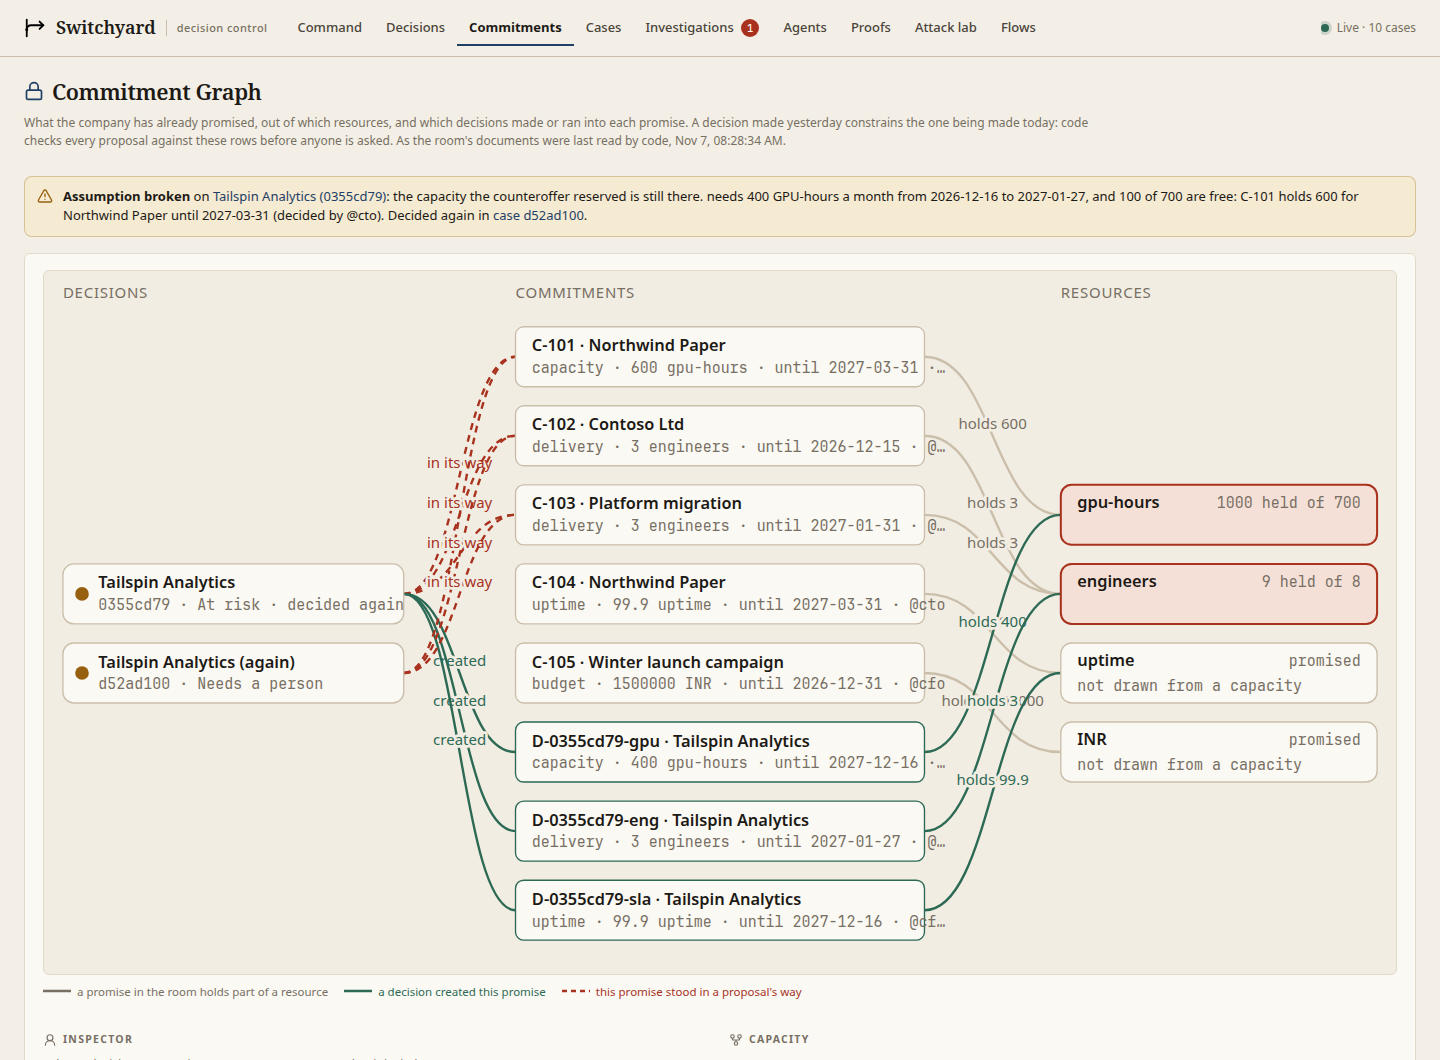
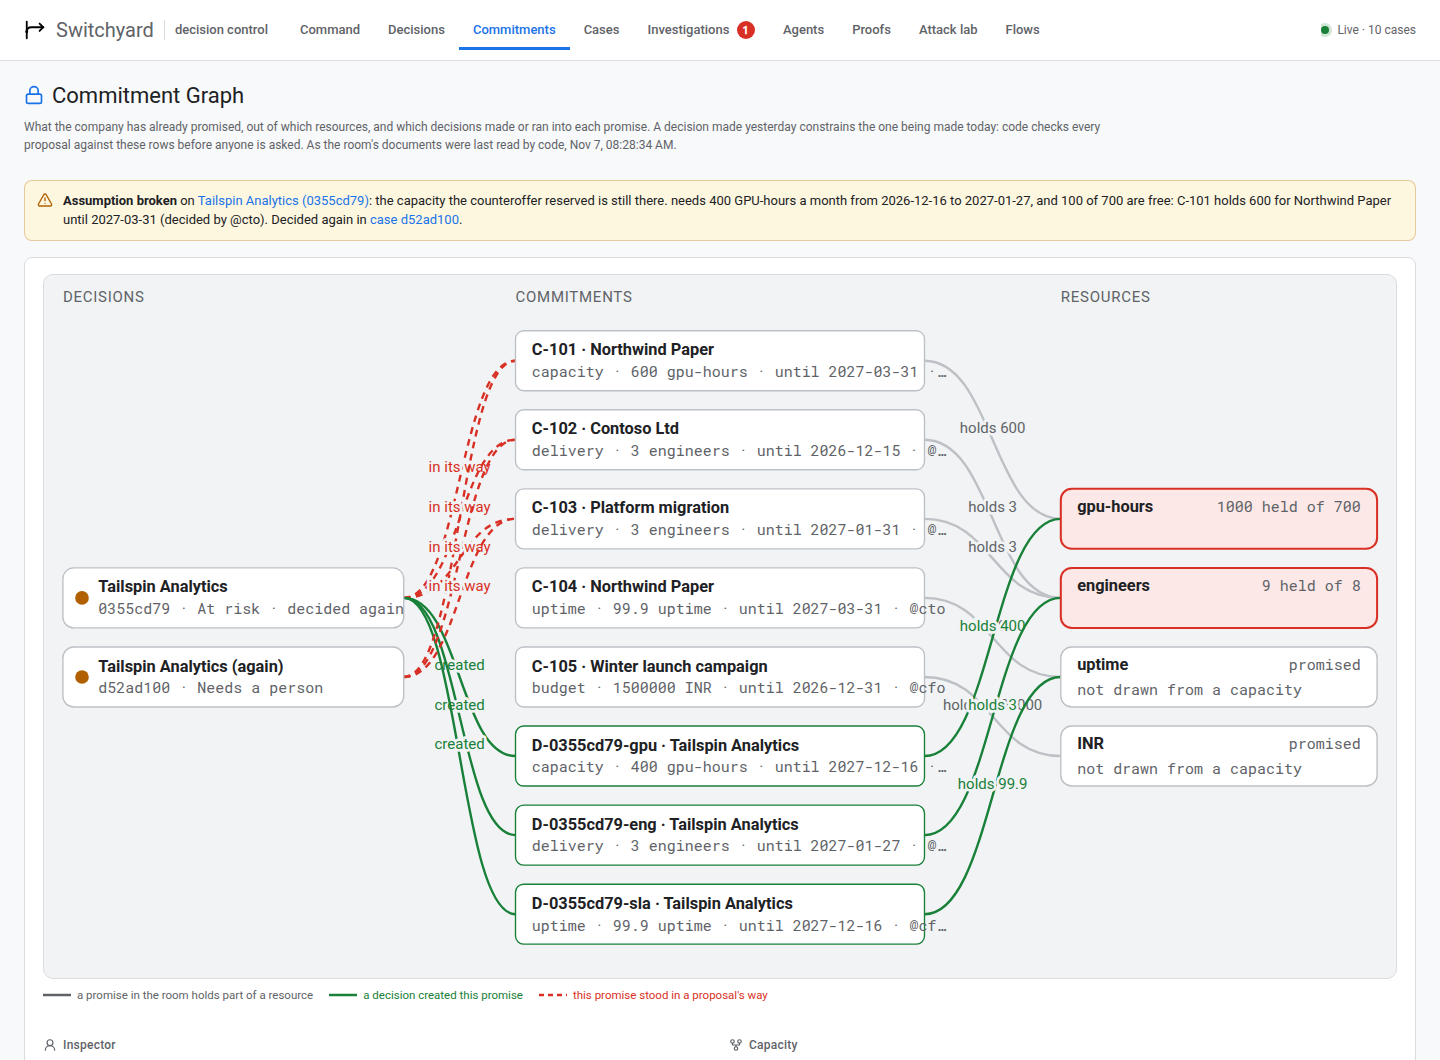
Restyle the console after Google's product UI: white cards, one blue, Roboto

Changed region(s): [[0.0, 0.0, 1.0, 0.9028], [0.0312, 0.934, 0.5625, 0.9962]]

diff --git a/src/web/static/console.css b/src/web/static/console.css
@@ -1,8 +1,8 @@
 /* The console: the dashboard's dense views (Command, Decisions,
-   Commitments, Agents, Proofs, Attack lab, walkthrough). A ledger on paper:
-   hairline rules, square corners, serif headings, figures in mono. Colour
-   carries meaning only: Prussian blue selects, ochre is uncertain or a
-   person's turn, madder is a violation, verdigris is verified. */
+   Commitments, Agents, Proofs, Attack lab, walkthrough), styled like
+   Google's own products: white cards on a light grey page, one blue for
+   what you can act on, and red, yellow and green for a violation, a
+   person's turn and a verified result. */
 
 :root[data-theme="dark"] .logo { filter: invert(1); }
 :root[data-theme="dark"] .vendor.v-anthropic { background: #3a2417; color: #f2b48d; }
@@ -12,7 +12,7 @@
 
 body { font-feature-settings: "cv11", "ss01"; background: var(--bg); }
 h1, h2, .brand, .cc-hero h1, .pf-top h2, .dr-top h2, .lab-head h1, .rp-head h1, .rp-stage-head h2, .lab-scenario h2, .ig-main h2, .d-head h1 {
-  font-family: var(--serif); font-weight: 600; letter-spacing: -.005em; }
+  font-family: var(--display); font-weight: 600; letter-spacing: -.005em; }
 .mono, code { font-variant-numeric: tabular-nums; }
 a { color: inherit; }
 .caselink { color: var(--accent); text-decoration: none; }
@@ -81,7 +81,7 @@ h3 .ico, h4 .ico { width: 14px; height: 14px; vertical-align: -2px; }
 .cc-tile { position: relative; display: grid; gap: 2px; padding: 14px 14px 12px; border-radius: var(--radius); background: var(--surface); border: 1px solid var(--line); text-decoration: none; overflow: hidden; transition: border-color .15s, transform .15s; }
 .cc-tile::before { content: ""; position: absolute; inset: 0 auto auto 0; width: 100%; height: 2px; background: var(--t); }
 .cc-tile:hover { border-color: var(--line-strong); background: var(--surface-2); }
-.cc-v { font: 600 32px/1.05 var(--serif); letter-spacing: -.01em; color: var(--t); font-variant-numeric: lining-nums tabular-nums; }
+.cc-v { font: 600 32px/1.05 var(--display); letter-spacing: -.01em; color: var(--t); font-variant-numeric: lining-nums tabular-nums; }
 .cc-v small { font-size: 16px; color: var(--muted); }
 .cc-l { font-weight: 600; font-size: 13px; }
 .cc-s { color: var(--muted); font-size: 11.5px; white-space: nowrap; overflow: hidden; text-overflow: ellipsis; }
@@ -449,54 +449,67 @@ a.btn { text-decoration: none; }
 .demo-mode { margin-left: auto; font: 600 11px/1 var(--mono); text-transform: uppercase; letter-spacing: .06em; color: var(--person); background: var(--person-soft); border: 1px solid color-mix(in srgb, var(--person) 40%, transparent); padding: 6px 9px; border-radius: 6px; white-space: nowrap; }
 .demo-mode:not([hidden]) + .live { margin-left: 12px; }
 
-/* ---------- Ledger finish (light) ---------- */
+/* ---------- Google-style finish (light) ---------- */
+h1, h2, .brand, .cc-hero h1, .pf-top h2, .dr-top h2, .lab-head h1, .rp-head h1, .rp-stage-head h2, .lab-scenario h2, .ig-main h2, .d-head h1 { font-weight: 400; letter-spacing: 0; }
+.cc-hero h1 { font-size: 32px; line-height: 1.2; }
 .card, .cc-tile, .pf-block, .lab-result, .dr-view, .ag-job, .ag-yard-list li, .rp-agents > li, .pf-seal-step, .dr-watch li, .pf-exec, .ig-facts li { border-radius: var(--radius); box-shadow: none; }
-.card { background: var(--surface); border-color: var(--line); }
-.topbar { background: var(--bg); border-bottom: 1px solid var(--line-strong); backdrop-filter: none; }
-.brand { font-size: 18px; }
-.brand-sub { font-family: var(--font); font-size: 11px; letter-spacing: .04em; text-transform: none; color: var(--muted); }
+.card { background: var(--surface); border: 1px solid var(--line); }
+.topbar { background: var(--surface); border-bottom: 1px solid var(--line); backdrop-filter: none; }
+.brand { font-size: 20px; color: var(--muted); }
+.brand-sub { font-size: 13px; letter-spacing: 0; text-transform: none; color: var(--muted); border-left-color: var(--line); }
 .tabs { background: transparent; border: 0; padding: 0; gap: 0; border-radius: 0; }
-.tabs button { border-radius: 0; padding: 8px 12px; color: var(--ink-2); }
-.tabs button[aria-selected="true"] { background: transparent; color: var(--ink); box-shadow: inset 0 -2px 0 var(--accent); font-weight: 650; }
-.tabs .n { background: var(--stop); color: var(--on-act); }
-.seg-tabs { background: transparent; border: 0; border-bottom: 1px solid var(--line-strong); border-radius: 0; padding: 0; }
-.seg-tabs button { border-radius: 0; }
-.seg-tabs button[aria-selected="true"] { background: transparent; box-shadow: inset 0 -2px 0 var(--accent); }
-.card h3, .dr-sec h3, .cg-main h3, .lab-scenario h4, .lab-result h5, .pf-table th { font-family: var(--font); font-size: 10.5px; letter-spacing: .12em; color: var(--muted); }
-.pill { border-radius: 3px; font-weight: 600; }
-.chip { border-radius: 3px; background: transparent; }
-.chip[aria-checked="true"] { background: var(--accent); color: var(--on-accent); border-color: var(--accent); }
-.btn.small, .btn:not(.accent):not(.small) { background: var(--surface); border-color: var(--line-strong); }
-.btn.small:hover, .btn:not(.accent):not(.small):hover { border-color: var(--accent); }
-.btn { border-radius: var(--radius-sm); }
-.cc-chain-card { background: var(--surface); }
+.tabs button { border-radius: 0; padding: 10px 14px; color: var(--muted); font-weight: 500; }
+.tabs button:hover { color: var(--ink); background: var(--surface-2); }
+.tabs button[aria-selected="true"] { background: transparent; color: var(--accent); box-shadow: inset 0 -3px 0 var(--accent); }
+.tabs .n { background: var(--stop); color: #fff; }
+.seg-tabs { background: transparent; border: 0; border-bottom: 1px solid var(--line); border-radius: 0; padding: 0; }
+.seg-tabs button { border-radius: 0; color: var(--muted); }
+.seg-tabs button[aria-selected="true"] { background: transparent; color: var(--accent); box-shadow: inset 0 -3px 0 var(--accent); }
+.card h3, .dr-sec h3, .cg-main h3, .lab-scenario h4, .lab-result h5, .pf-table th { font-size: 12px; font-weight: 500; letter-spacing: .02em; text-transform: none; color: var(--muted); }
+.pill { border-radius: 999px; font-weight: 500; }
+.chip { border-radius: 8px; border-color: var(--line); background: var(--surface); color: var(--ink-2); font-weight: 500; }
+.chip[aria-checked="true"] { background: var(--accent-soft); color: #174ea6; border-color: var(--accent-soft); }
+.btn { border-radius: 999px; font-weight: 500; }
+.btn.accent, .btn.small.accent { background: var(--accent); color: #fff; border-color: var(--accent); }
+.btn.accent:hover { box-shadow: var(--shadow); opacity: 1; }
+.btn.small, .btn:not(.accent):not(.small) { background: var(--surface); color: var(--accent); border: 1px solid var(--line); }
+.btn.small:hover, .btn:not(.accent):not(.small):hover { background: var(--accent-soft); border-color: var(--line); }
+.cc-tile { background: var(--surface); }
+.cc-tile::before { display: none; }
+.cc-tile:hover { border-color: var(--line); box-shadow: var(--shadow); background: var(--surface); }
+.cc-v { font: 400 36px/1.1 var(--display); }
+.cc-l { font-weight: 500; }
 .cc-stage .ico { color: var(--accent); }
-.cc-n { font-family: var(--serif); font-weight: 600; font-size: 24px; }
-.cc-arrow { background: var(--line-strong); opacity: 1; }
+.cc-n { font-family: var(--display); font-weight: 400; font-size: 26px; }
+.cc-arrow { background: var(--line); opacity: 1; }
 .cc-arrow::after { border-left-color: var(--line-strong); }
-.cc-events li { border-bottom-color: var(--line); }
-.pf-text { background: var(--surface-2); border-left-color: var(--accent); font-family: var(--serif); font-size: 14.5px; line-height: 1.7; color: var(--ink); }
-.pf-text mark { background: color-mix(in srgb, var(--person) 18%, transparent); border-bottom: 1.5px solid var(--person); color: var(--ink); }
-.pf-ico { background: var(--surface-2); color: var(--accent); border: 1px solid var(--line); border-radius: 4px; }
-.pf-chain::before { background: var(--line-strong); opacity: 1; }
+.pf-text { background: var(--surface-2); border-left: 3px solid var(--accent); border-radius: 0 var(--radius) var(--radius) 0; font-family: var(--font); font-size: 14px; line-height: 1.75; color: var(--ink); }
+.pf-text mark { background: #fef7e0; border-bottom: 2px solid #f9ab00; color: var(--ink); }
+.pf-ico { background: var(--accent-soft); color: var(--accent); border: 0; border-radius: 50%; }
+.pf-chain::before { background: var(--line); opacity: 1; }
 .pf-block::before { border-color: var(--accent); background: var(--surface); }
-.pf-block.open { border-color: var(--line-strong); }
+.pf-block { background: var(--surface); }
+.pf-block.open { border-color: var(--line); box-shadow: var(--shadow); }
+.pf-seal-step { background: var(--surface); }
 .pf-verdict { border-radius: var(--radius); }
-.dr-alts thead th { background: var(--surface-2); font-family: var(--font); }
-.dr-promise { background: var(--stop-soft); border-left-color: var(--stop); }
-.ig-graph-wrap { background: var(--surface-2); background-image: none; border-radius: var(--radius); }
-.ig-node rect { fill: var(--surface); }
-.ig-node.ig-vnd rect { fill: var(--surface); }
+.dr-alts thead th { background: var(--surface-2); }
+.dr-promise { background: var(--stop-soft); border-left-color: var(--stop); border-radius: 0 4px 4px 0; }
+.dr-view { background: var(--surface); }
+.ig-graph-wrap { background: var(--surface-2); background-image: none; }
+.ig-node rect, .ig-node.ig-vnd rect { fill: var(--surface); }
 .ig-node.ig-acct.flagged rect { fill: var(--stop-soft); }
 .ig-edge text { stroke: var(--surface-2); }
 .cg-track { fill: var(--surface-3); }
 .cg-fill { fill: var(--accent); }
-.lab-badge { border-radius: 3px; }
-.lab-legend .sw.a, .lab-bars .bar.a i { background: var(--line-strong); }
+.lab-badge { border-radius: 999px; padding: 3px 7px; }
+.lab-legend .sw.a, .lab-bars .bar.a i { background: #9aa0a6; }
 .lab-bars .bar.b i { background: var(--accent); }
-.rp-big { font-family: var(--serif); font-weight: 600; color: var(--accent); }
-.rp-stage.done .rp-num { background: var(--accent-soft); }
-.rp-stage.current button, .pf-pick[aria-current="true"], .lab-pick[aria-current="true"], .ig-pick[aria-current="true"] { background: var(--surface-2); border-color: var(--accent); box-shadow: inset 2px 0 0 var(--accent); }
-.ag-job.sel { box-shadow: inset 2px 0 0 var(--accent); }
-.demo-mode { border-radius: 3px; text-transform: none; letter-spacing: 0; font-family: var(--font); font-size: 11.5px; }
+.lab-cfg legend { color: var(--accent); }
+.rp-big { font-family: var(--display); font-weight: 400; color: var(--accent); }
+.rp-stage.done .rp-num { background: var(--accent-soft); border-color: var(--accent-soft); color: #174ea6; }
+.rp-stage.current button, .pf-pick[aria-current="true"], .lab-pick[aria-current="true"], .ig-pick[aria-current="true"] { background: var(--accent-soft); border-color: transparent; box-shadow: none; }
+.pf-pick, .lab-pick { border-radius: 0 999px 999px 0; }
+.ag-job.sel { border-color: var(--accent); box-shadow: inset 3px 0 0 var(--accent); }
+.demo-mode { border-radius: 999px; text-transform: none; letter-spacing: 0; font-family: var(--font); font-size: 12px; font-weight: 500; background: #fef7e0; color: #b06000; border-color: #fde293; }
 .skeleton { background: linear-gradient(90deg, var(--surface-2), var(--surface-3), var(--surface-2)); background-size: 200% 100%; }
+.banner { border-radius: var(--radius); }

diff --git a/src/web/static/theme.css b/src/web/static/theme.css
@@ -1,41 +1,40 @@
 /* Switchyard theme: shared by the dashboard, the forms and the chat widget. */
 :root {
-  /* A ledger on paper: warm stock, iron-gall ink, hairline rules, and
-     pigments for meaning. Prussian blue selects; madder is a violation;
-     verdigris is verified; ochre is uncertainty or a person's turn;
-     aubergine is an agent. */
-  --bg: #f3efe6;
-  --surface: #fbf9f4;
-  --surface-2: #f2ede3;
-  --surface-3: #e9e2d5;
-  --ink: #1d1a16;
-  --ink-2: #4a443b;
-  --muted: #776f63;
-  --line: #e1d9ca;
-  --line-strong: #cbbfab;
-  --focus: #1f3f66;
-  --accent: #1f3f66;       /* Prussian blue */
-  --accent-soft: #e2e8ef;
-  --on-accent: #fbf9f4;
+  /* Google's product palette: white surfaces on a light grey page, one
+     blue for everything you can act on, and Google red, yellow and green
+     for a violation, a person's turn and a verified result. */
+  --bg: #f8f9fa;
+  --surface: #ffffff;
+  --surface-2: #f1f3f4;
+  --surface-3: #e8eaed;
+  --ink: #202124;
+  --ink-2: #3c4043;
+  --muted: #5f6368;
+  --line: #dadce0;
+  --line-strong: #bdc1c6;
+  --focus: #1a73e8;
+  --accent: #1a73e8;
+  --accent-soft: #e8f0fe;
+  --on-accent: #ffffff;
 
-  --agent: #6a3d74;        /* aubergine */
-  --agent-soft: #efe6ef;
-  --person: #96600f;       /* ochre, AA on paper */
-  --person-soft: #f5ead2;
-  --act: #2d6a55;          /* verdigris */
-  --act-soft: #e0ede6;
-  --stop: #a8321e;         /* madder */
-  --stop-soft: #f5e0d8;
-  --yard: #4a5560;
-  --yard-soft: #e6e6e1;
-  --on-act: #fbf9f4;
+  --agent: #9334e6;
+  --agent-soft: #f3e8fd;
+  --person: #b06000;
+  --person-soft: #fef7e0;
+  --act: #188038;
+  --act-soft: #e6f4ea;
+  --stop: #d93025;
+  --stop-soft: #fce8e6;
+  --yard: #5f6368;
+  --yard-soft: #f1f3f4;
+  --on-act: #ffffff;
 
-  --radius: 6px;
+  --radius: 8px;
   --radius-sm: 4px;
-  --shadow: none;
-  --font: "Inter", "Source Sans 3", "Segoe UI", ui-sans-serif, system-ui, -apple-system, sans-serif;
-  --serif: "Charter", "Bitstream Charter", "Iowan Old Style", "Palatino Linotype", Palatino, "Source Serif 4", "Noto Serif", Georgia, serif;
-  --mono: "IBM Plex Mono", "JetBrains Mono", "SF Mono", ui-monospace, Menlo, monospace;
+  --shadow: 0 1px 2px 0 rgba(60, 64, 67, .3), 0 1px 3px 1px rgba(60, 64, 67, .15);
+  --font: "Google Sans Text", "Google Sans", Roboto, "Segoe UI", Arial, sans-serif;
+  --display: "Google Sans", "Google Sans Text", Roboto, "Segoe UI", Arial, sans-serif;
+  --mono: "Roboto Mono", "SF Mono", ui-monospace, Menlo, monospace;
   color-scheme: light;
 }
 /* Dark: graphite and deep navy. Cyan is the accent (focus, selection,

diff --git a/src/web/static/index.html b/src/web/static/index.html
@@ -5,6 +5,9 @@
 <meta name="viewport" content="width=device-width, initial-scale=1">
 <title>Switchyard</title>
 <link rel="icon" href="/static/logo.svg">
+<link rel="preconnect" href="https://fonts.googleapis.com">
+<link rel="preconnect" href="https://fonts.gstatic.com" crossorigin>
+<link rel="stylesheet" href="https://fonts.googleapis.com/css2?family=Roboto:wght@400;500;700&family=Roboto+Mono:wght@400;500&display=swap">
 <link rel="stylesheet" href="/static/theme.css">
 <link rel="stylesheet" href="/static/app.css">
 <link rel="stylesheet" href="/static/console.css">
